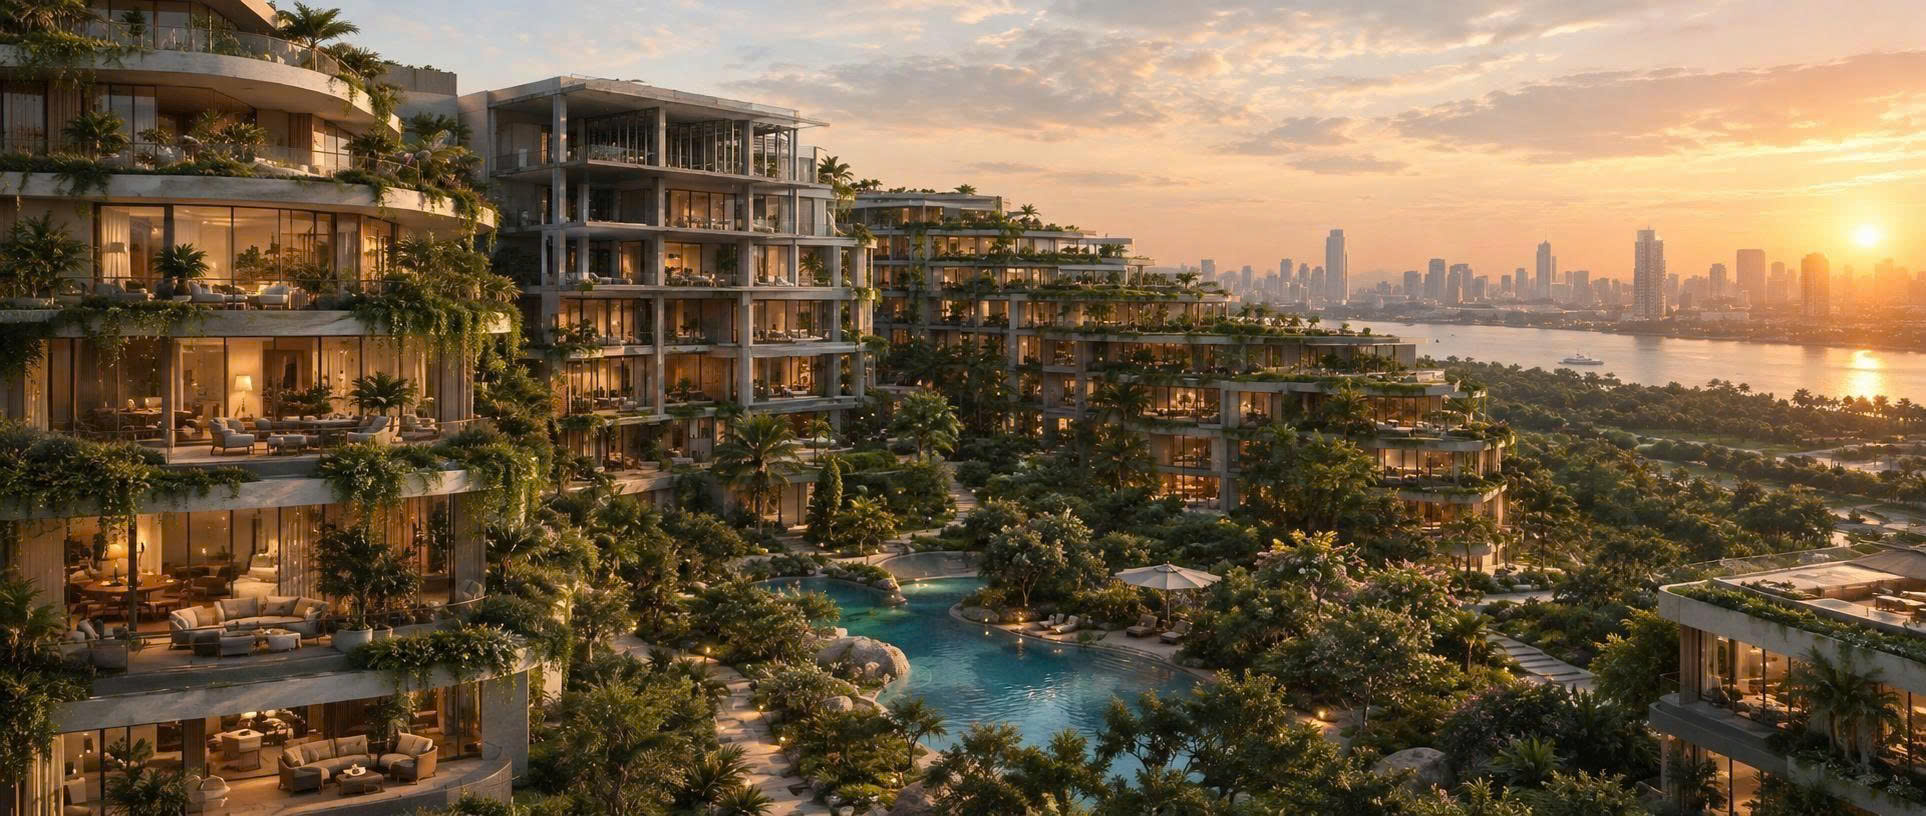
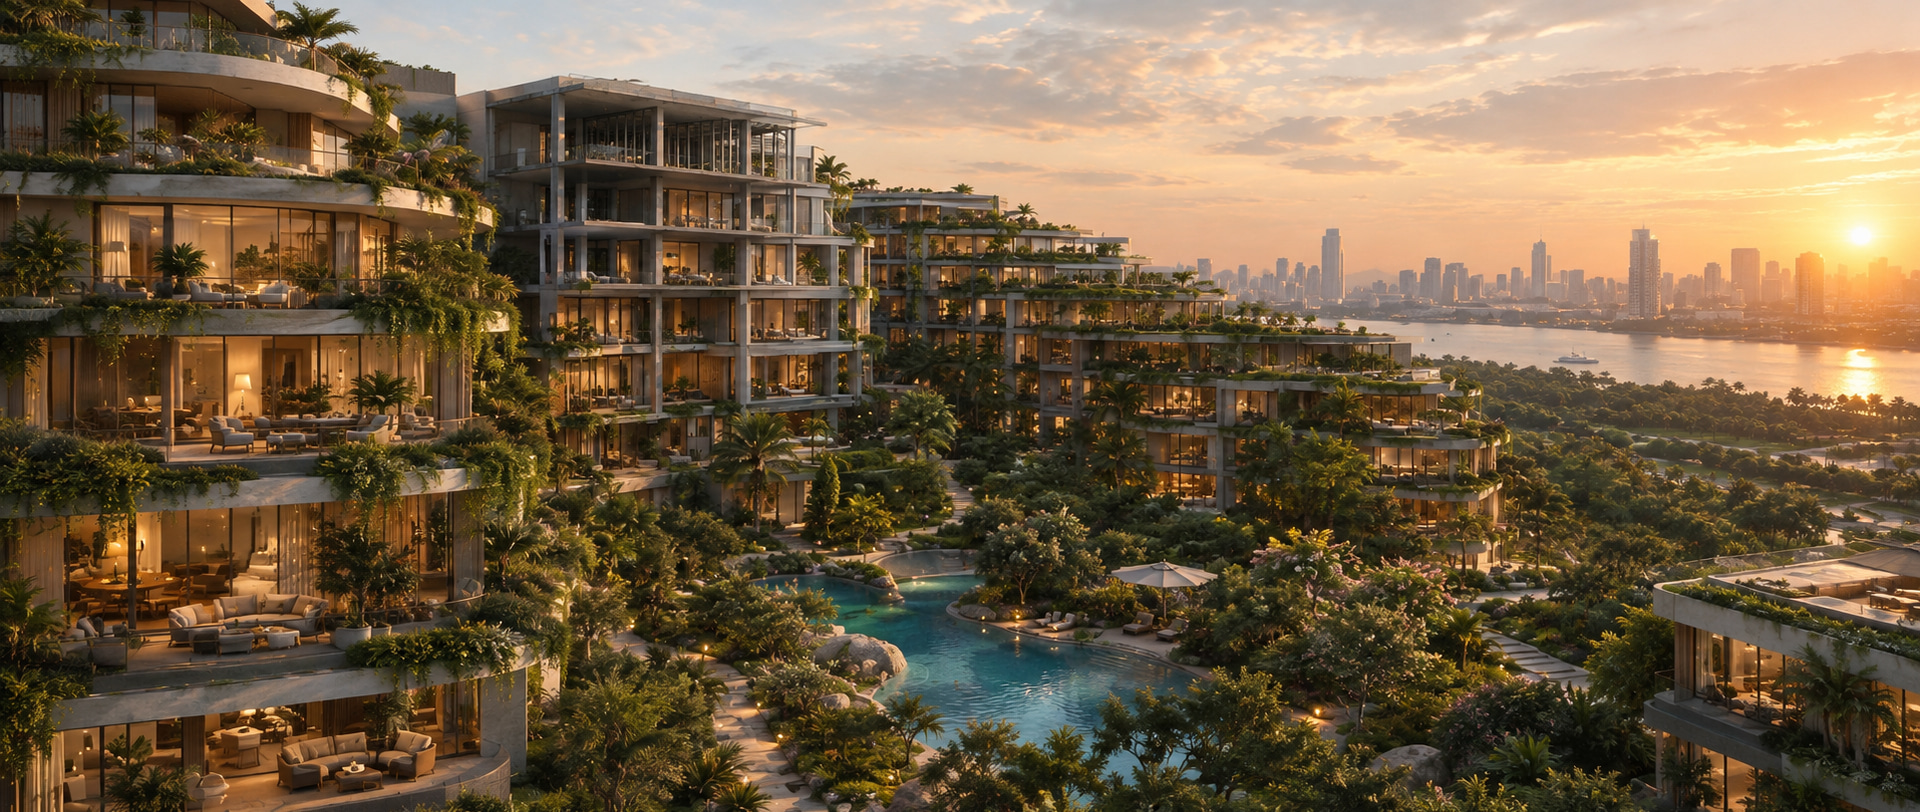
feat(home): sharper hero with a phone cut, no copy pool, and card photos from client renders
- Hero: the client's 1920px render, upscaled once to a 3840 master, served as
  a hand-built <picture> (AVIF, WebP, JPEG) with a wide ladder from md and a
  phone-only square cut below it.
- Drop the dark radial pool behind the hero copy and the scrim-faint token;
  the numbers bar is scrim-soft with text-glow at every width, no blur.
- Home service cards take their own 4:5 photos cut from the client's project
  renders (services.featured items gain an optional image).
- Resupplied, cleaner project showcase photo; CREDITS.md records every cut.

diff --git a/src/lib/content.ts b/src/lib/content.ts
@@ -15,6 +15,7 @@
  * `load*` wrappers touch Astro.
  */
 import { getCollection } from 'astro:content';
+import type { ImageMetadata } from 'astro';
 import type { CollectionEntry, CollectionKey } from 'astro:content';
 import type { Locale } from '../i18n/locales';
 
@@ -390,18 +391,40 @@ export const getSettings = async (lang: Locale) =>
 export const getStats = async (lang: Locale): Promise<readonly StatItem[]> =>
   (await loadSingle('stats', lang, 'stats')).data.items;
 
+/** One featured home card: its service, and the photo the card draws. */
+export type FeaturedService = Readonly<{
+  service: Service;
+  /** The card's own local file, or else the service's intro photo. */
+  image: Readonly<{ src: ImageMetadata | string; alt: string }>;
+}>;
+
 /** The home page, with `services.featured` resolved to its services, in order. */
 export const getHomePage = async (lang: Locale) => {
   const [entry, services] = await Promise.all([
     loadSingle('home', lang, 'home'),
     loadChecked('services'),
   ]);
-  const featured = resolveServiceRefs(
+  const items = entry.data.services.featured;
+  const resolved = resolveServiceRefs(
     { page: 'home', file: fileOf(entry), field: 'services.featured' },
     lang,
-    entry.data.services.featured,
+    items.map((item) => item.service),
     services,
   );
+  const featured = items.map((item): FeaturedService => {
+    const service = resolved.find(
+      (candidate) => candidate.id === item.service.id,
+    );
+    if (!service) {
+      throw new Error(`[content] home: "${item.service.id}" did not resolve`);
+    }
+    return {
+      service,
+      image: item.image
+        ? { src: item.image.src, alt: item.image.alt ?? '' }
+        : servicePhoto(service),
+    };
+  });
   return { ...entry.data, services: { ...entry.data.services, featured } };
 };
 

diff --git a/src/content.config.ts b/src/content.config.ts
@@ -383,6 +383,13 @@ const home = defineCollection({
          * with the photo.
          */
         copyStart: z.number().min(0).max(1),
+        /**
+         * The same render cut for phones (2026-10-31): a full height square
+         * starting at 25 percent of the width cut away, the share the band
+         * frames `image` at, so a phone shows the same slice and fetches
+         * only that. Cut it again with a new `image` (`CREDITS.md`).
+         */
+        phoneImage: image(),
         primaryCta: link,
       }),
       // The intro band under the hero (spec 0005). Its numbers are the
@@ -417,8 +424,20 @@ const home = defineCollection({
            * such as `en/architectural-bim`. One to three, so a new service
            * reaches the home page only when it is listed here. `getHomePage`
            * checks every id itself; Astro would only log a missing one.
+           *
+           * `image` is the card's own photo (2026-10-31), a local file cut
+           * to the card's 4:5 frame; without one the card takes the first
+           * photo of the service page's intro carousel.
            */
-          featured: z.array(reference('services')).min(1).max(3),
+          featured: z
+            .array(
+              z.strictObject({
+                service: reference('services'),
+                image: imageSchema(image).optional(),
+              }),
+            )
+            .min(1)
+            .max(3),
           /**
            * Cards for services with no page of their own (2026-10-11), drawn
            * after the featured ones, home only: no route, no nav item, and

diff --git a/src/styles/global.css b/src/styles/global.css
@@ -98,11 +98,6 @@
      white pixel falls to 2.99:1, so every word on it carries `text-glow`,
      which darkens the photo right round each letter. */
   --color-scrim-soft: rgb(12 21 25 / 0.5);
-  /* The home hero's layer over its whole photo (2026-10-24), Chinese Black
-     at 30 percent, so the night photo reads bright. Never alone under words:
-     the copy adds a `scrim-soft` radial pool behind itself, and every word
-     carries `text-glow`. */
-  --color-scrim-faint: rgb(12 21 25 / 0.3);
   /* The contact form band's layer, where small text sits straight on it,
      and a project tile's hovered caption. At 90 percent, with the
      `bg-diagonal` stripe on top, its worst pixel is #31393c: `heading`

diff --git a/src/assets/images/CREDITS.md b/src/assets/images/CREDITS.md
@@ -63,10 +63,55 @@ placeholders until real project photography arrives.
 
 ## Local images
 
-| Used for              | File                                                                            | Source and licence                                                 |
-| --------------------- | ------------------------------------------------------------------------------- | ------------------------------------------------------------------ |
-| Home hero             | `home/banner-homepage.jpg`, a tower and terraced hillside homes at dusk         | Supplied by the client on 2026-10-24 for the home hero             |
-| Home project showcase | `projects/projects-banner.jpg`, terraced garden residences round a pool at dusk | Supplied by the client on 2026-10-24 for the home project showcase |
+| Used for                     | File                                                                                 | Source and licence                                                |
+| ---------------------------- | ------------------------------------------------------------------------------------ | ----------------------------------------------------------------- |
+| Home hero                    | `home/banner-homepage.jpg`, a tower and terraced hillside homes at dusk              | Supplied by the client on 2026-10-24, at 1920px on 2026-10-31 (1) |
+| Home project showcase        | `projects/projects-banner.jpg`, terraced garden residences round a pool at dusk      | Supplied by the client on 2026-10-24, resupplied 2026-10-31 (3)   |
+| Home card: Interior BIM      | `services/card-interior-bim.jpg`, from the SS Apartment Complex cover render         | The client's project render in Sanity, cut on 2026-10-31 (2)      |
+| Home card: Architectural BIM | `services/card-architectural-bim.jpg`, from the TK Mixed-Used Buildings cover render | The client's project render in Sanity, cut on 2026-10-31 (2)      |
+| Home card: Landscape BIM     | `services/card-landscape-bim.jpg`, from the Seaside Residence cover render           | The client's project render in Sanity, cut on 2026-10-31 (2)      |
+
+(1) The home hero is the client's 1920 × 1080 render at its own tones,
+prepared once with sharp so desktops at 2x and 4K get a sharp photo
+(`Hero.astro`): a Lanczos upscale to 3840 × 2160, then
+`sharpen({ sigma: 1.2, m1: 0.4, m2: 2 })`, saved as a JPEG at quality 95 with
+4:4:4 chroma. A new render needs the same steps. Its brightness is left alone:
+a gamma lift was tried on 2026-10-31 and read too bright.
+
+`home/banner-homepage-phone.jpg` is the same master cut for phones
+(`phoneImage` in `home.yaml`): a full height square starting at 25 percent of
+the width cut away (`extract({ left: 420, top: 0, width: 2160, height: 2160 })`
+on the 3840 master, the render's x 210 to 1290), scaled to 1080 × 1080 with
+Lanczos, JPEG at quality 95 with 4:4:4 chroma. The 25 percent is the band's
+`object-position`, so a phone frames the slice exactly as it framed the whole.
+A new render needs a new cut.
+
+(2) The home service cards (`services.featured` in `home.yaml`) are the
+client's project renders, downloaded at full size from Sanity's CDN and cut
+once with sharp to the card's 4:5 frame, so a wide render is never stretched
+across a tall card. Each is one `extract` on the original, a Lanczos resize to
+1200 × 1500, `sharpen({ sigma: 1.2, m1: 0.4, m2: 2 })`, and a JPEG at quality
+90 with 4:4:4 chroma:
+
+- Interior: `extract({ left: 791, top: 0, width: 602, height: 752 })` on the
+  1883 × 835 render, the top 90 percent, centred on the feature wall.
+- Architectural: `extract({ left: 637, top: 0, width: 653, height: 816 })` on
+  the 1927 × 816 render, full height, centred.
+- Landscape: `extract({ left: 418, top: 0, width: 779, height: 974 })` on the
+  1614 × 974 render, full height, centred.
+
+They were picked from projects other than the first of each category, which
+the project showcase at the foot of the page already shows.
+
+(3) The project showcase's photo was resupplied by the client on 2026-10-31
+as a 1920 × 1080 screenshot, the render letterboxed between blurred bars. It
+is the render alone, cut once with sharp:
+`extract({ left: 0, top: 133, width: 1920, height: 812 })` (the last photo
+row, 945, dropped as a possible blend into the bar), saved as a JPEG at
+quality 95 with 4:4:4 chroma. It is the same picture at the same pixel size
+as the first copy (1926 × 816) and the same tones (mean level 93.8 against
+93.9), only cleaner, so the contrast check in `ProjectShowcase.astro` still
+holds.
 
 ## Icons copied from open licence sets (spec 0013)
 

diff --git a/docs/design.md b/docs/design.md
@@ -65,8 +65,7 @@ what it paints and the next palette change is values only.
 | `--color-field` | `#8c8480` | Form field borders, a control boundary: 5.04:1 against the `canvas` fill |
 | `--color-error` | `#ff8a7a` | Error text and error borders, on every surface |
 | `--color-scrim` | `rgb(12 21 25 / 0.7)` | The see through layer under words on a photo. `heading` on it is 5.91:1 over a pure white pixel, so no photo can break it. Never lighter, except `scrim-soft` on the Project hero |
-| `--color-scrim-soft` | `rgb(12 21 25 / 0.5)` | The Project hero's layer only (2026-10-16, so its photo reads bright). `heading` on it alone is 2.99:1 over a pure white pixel, so every word on it carries `text-glow` (a Chinese Black halo round each letter) |
-| `--color-scrim-faint` | `rgb(12 21 25 / 0.3)` | The home hero's layer over its whole photo only (2026-10-24, so the night photo reads bright). Never alone under words: the copy sits on a `scrim-soft` radial pool, and every word carries `text-glow` |
+| `--color-scrim-soft` | `rgb(12 21 25 / 0.5)` | The Project hero's layer (2026-10-16, so its photo reads bright) and the home hero's numbers bar (2026-10-31). `heading` on it alone is 2.99:1 over a pure white pixel, so every word on it carries `text-glow` (a Chinese Black halo round each letter) |
 | `--color-scrim-strong` | `rgb(12 21 25 / 0.9)` | The contact form band's layer. With the `bg-diagonal` stripe on top, its worst pixel is `#31393c` |
 | `--color-glass` | `rgb(58 53 52 / 0.8)` Jet | The header's frosted fill, and nothing else. Reads as a `panel` card (1.33:1 on canvas). Only valid over its backdrop filter (`blur(12px) brightness(0.3)`): a pure white pixel then lands at `#3e3a39`, `accent` 4.69:1. Never lighter, never without the dimming |
 
@@ -310,15 +309,17 @@ The bands that are not a tone each borrow the band frame:
   (on the form band, the field and card rules hold too: they are measured at
   its worst pixel). Each carries `focus-contrast`.
 - **The home hero** (2026-10-24, after the client's sketch): a photo band.
-  The night photo of the tower and the hillside covers the band under
-  `scrim-faint`, with a `scrim-soft` radial pool behind the copy only. The copy (a brass eyebrow, the title, which is the `h1`,
+  The night photo of the tower and the hillside covers the band with no
+  scrim over it and none behind the copy (2026-10-31, the client's call: a
+  dark pool behind the title read as a black patch on the sky). The copy (a brass eyebrow, the title, which is the `h1`,
   with a brass `==` phrase, the paragraph, the button) sits on the sky, and
   from `lg` its start edge lines up with the tower's right edge
   (`hero-photo` draws the photo at a known width, `hero-copy-inset` puts the
   copy at the tower's share of it, `copyStart` in content). Every word
   carries `text-glow`; the brass words are the client's call, measured over
   this photo's sky rather than a pure white pixel. The numbers sit in a
-  `scrim-strong` bar with a `line` outline along the bottom. It carries
+  `scrim-soft` bar with a `line` outline along the bottom, with no blur and
+  `text-glow` on every word, so the photo shows through it sharp. It carries
   `focus-contrast`. The copy's four parts play the CSS `entrance` on load,
   80ms apart.
 - **The accent band** (`CtaBand`): brass, `on-accent` words, a `canvas` link.

diff --git a/src/content/README.md b/src/content/README.md
@@ -83,9 +83,11 @@ two map entries. Its heading id (`<type>-heading`) comes from its type.
 3. Build. Its page exists at `/<slug>`, and it appears in the nav and in the
    contact form's choices, in `order`. For project rooms to name it, add it
    to `CATEGORIES` in `studio/project.ts` and redeploy the Studio.
-4. It is not on the home page until you add its id (`<lang>/<slug>`) to
-   `services.featured` in `home/<lang>/home.yaml`, which lists one to three
-   services.
+4. It is not on the home page until you add an item to `services.featured`
+   in `home/<lang>/home.yaml`, which lists one to three services: its id as
+   `service` (`<lang>/<slug>`), and optionally an `image`, a local file with
+   its `alt`, cut to 4:5 (see `src/assets/images/CREDITS.md`). Without an
+   `image` the card shows the first photo of the service's intro carousel.
 
 ### A home only service card
 
